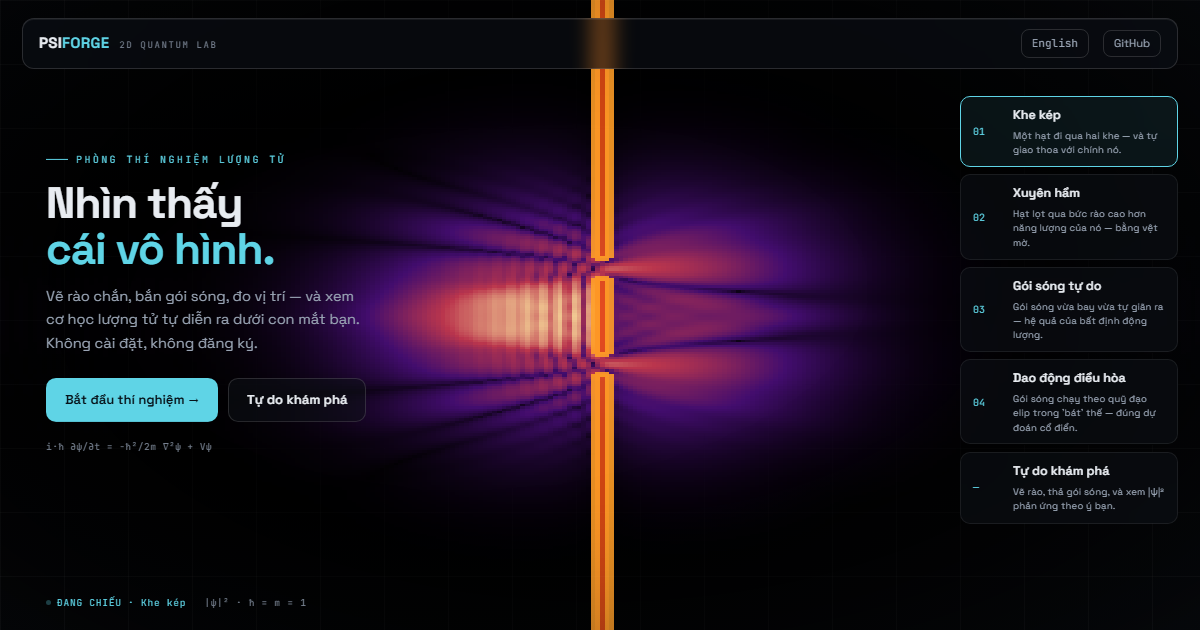
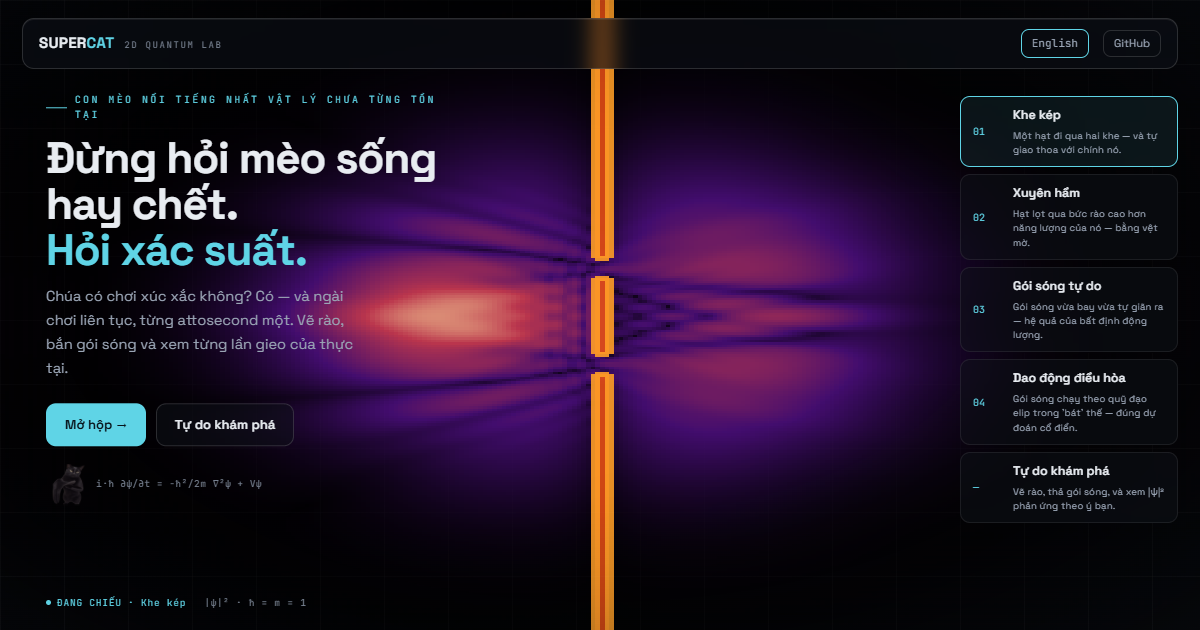
feat(web): rebrand Psiforge -> Supercat
Supercat landing voice: the meme cat hosts the hero, the physics keeps
the workspace (approved bounded design, 2026-10-02).

- i18n vi/en: app.title/tagline + landing hero (kicker 'CON MÈO NỔI
  TIẾNG NHẤT VẬT LÝ CHƯA TỪNG TỒN TẠI', title 'Đừng hỏi mèo sống hay
  chết. / Hỏi xác suất.', dice desc, CTA 'Mở hộp →'); landing.title
  stays ONE key with a literal \n, split('\n') at the call site
- index.html: Supercat title + OG/Twitter meta, dice-hook description
- wordmark SUPER<i>CAT</i> in TopBar + landing nav lockup (accent now
  rides CAT, same pattern as PSI<i>FORGE</i>)
- hero: the meme photo (cat-meme.png, whole-cat 4:5 crop) as a small
  rounded card beside the decorative Schrödinger equation
- favicon: favicon.png — face crop of the same photo (replaces the
  stroke-drawn psi svg); index.html link + landing.spec shell pin
- og.png: recaptured 1200x630 from the new vi landing
- test pins updated: i18n hero draft, wordmarks, shell title, e2e
  heading lines

diff --git a/web/index.html b/web/index.html
@@ -2,28 +2,28 @@
 <html lang="vi">
   <head>
     <meta charset="UTF-8" />
-    <link rel="icon" type="image/svg+xml" href="/favicon.svg" />
+    <link rel="icon" type="image/png" href="/favicon.png" />
     <meta name="viewport" content="width=device-width, initial-scale=1.0" />
     <!-- Document shell (UI redesign T10). The title/description are static
          Vietnamese by design — the app's default language is vi and the
          document loads before the i18n store boots, so no keys here. -->
-    <title>Psiforge — Phòng thí nghiệm lượng tử 2D</title>
+    <title>Supercat — Phòng thí nghiệm lượng tử 2D</title>
     <meta
       name="description"
-      content="Phòng thí nghiệm lượng tử 2D chạy trực tiếp trong trình duyệt: vẽ rào chắn, thả gói sóng, đo vị trí và động lượng của hàm sóng ψ. Không cài đặt, không đăng ký."
+      content="Chúa có chơi xúc xắc không? Có — và ngài chơi liên tục. Phòng thí nghiệm lượng tử 2D chạy ngay trong trình duyệt: vẽ rào chắn, thả gói sóng, đo vị trí và động lượng của hàm sóng ψ."
     />
-    <meta property="og:title" content="Psiforge — Phòng thí nghiệm lượng tử 2D" />
+    <meta property="og:title" content="Supercat — Phòng thí nghiệm lượng tử 2D" />
     <meta
       property="og:description"
-      content="Phòng thí nghiệm lượng tử 2D chạy trực tiếp trong trình duyệt: vẽ rào chắn, thả gói sóng, đo vị trí và động lượng của hàm sóng ψ. Không cài đặt, không đăng ký."
+      content="Chúa có chơi xúc xắc không? Có — và ngài chơi liên tục. Phòng thí nghiệm lượng tử 2D chạy ngay trong trình duyệt: vẽ rào chắn, thả gói sóng, đo vị trí và động lượng của hàm sóng ψ."
     />
     <meta property="og:type" content="website" />
     <meta property="og:image" content="/og.png" />
     <meta name="twitter:card" content="summary_large_image" />
-    <meta name="twitter:title" content="Psiforge — Phòng thí nghiệm lượng tử 2D" />
+    <meta name="twitter:title" content="Supercat — Phòng thí nghiệm lượng tử 2D" />
     <meta
       name="twitter:description"
-      content="Phòng thí nghiệm lượng tử 2D chạy trực tiếp trong trình duyệt: vẽ rào chắn, thả gói sóng, đo vị trí và động lượng của hàm sóng ψ. Không cài đặt, không đăng ký."
+      content="Chúa có chơi xúc xắc không? Có — và ngài chơi liên tục. Phòng thí nghiệm lượng tử 2D chạy ngay trong trình duyệt: vẽ rào chắn, thả gói sóng, đo vị trí và động lượng của hàm sóng ψ."
     />
     <meta name="twitter:image" content="/og.png" />
   </head>

diff --git a/web/src/i18n/vi.ts b/web/src/i18n/vi.ts
@@ -1,7 +1,7 @@
 /** Vietnamese dictionary. Key set must stay identical to `en.ts`. */
 export const vi: Record<string, string> = {
-  'app.title': 'Psiforge — mô phỏng lượng tử 2D',
-  'app.tagline': 'Vật lý sóng lượng tử chạy ngay trong trình duyệt',
+  'app.title': 'Supercat — mô phỏng lượng tử 2D',
+  'app.tagline': 'Tất cả chỉ là xác suất — giờ bạn nhìn thấy được',
   'app.lang.switchToEn': 'English',
   'app.lang.switchToVi': 'Tiếng Việt',
   'app.noWebgl': 'Không có WebGL2 — trình mô phỏng không thể hiển thị trên thiết bị này.',
@@ -131,9 +131,9 @@ export const vi: Record<string, string> = {
     'Chọn công cụ vẽ rào/giếng, thả gói sóng bằng cách kéo trên nền.\n' +
     'Xem |ψ|² phản ứng.',
   // UI redesign (2026-10-01): section labels for the workspace side rails and
-  // the scene tab bar, plus the landing hero copy. Values are the Appendix A
-  // draft of the redesign spec — final wording is settled in a later polish
-  // pass, these pins are the parity baseline. 'landing.title' is ONE key with
+  // the scene tab bar, plus the landing hero copy. Hero values are the
+  // Supercat rebrand draft (2026-10-02) — these pins are the parity baseline.
+  // 'landing.title' is ONE key with
   // a literal '\n' between the two hero lines (the component renders it via
   // split('\n'), like the preset cards); 'landing.schrodinger' is decorative
   // math (aria-hidden at the call site) and identical across languages.
@@ -143,11 +143,11 @@ export const vi: Record<string, string> = {
   'rail.view': 'HIỂN THỊ',
   'rail.export': 'XUẤT',
   'scene.label': 'THÍ NGHIỆM · {name}',
-  'landing.kicker': 'PHÒNG THÍ NGHIỆM LƯỢNG TỬ',
-  'landing.title': 'Nhìn thấy\ncái vô hình.',
+  'landing.kicker': 'CON MÈO NỔI TIẾNG NHẤT VẬT LÝ CHƯA TỪNG TỒN TẠI',
+  'landing.title': 'Đừng hỏi mèo sống hay chết.\nHỏi xác suất.',
   'landing.desc':
-    'Vẽ rào chắn, bắn gói sóng, đo vị trí — và xem cơ học lượng tử tự diễn ra dưới con mắt bạn. Không cài đặt, không đăng ký.',
-  'landing.ctaPrimary': 'Bắt đầu thí nghiệm →',
+    'Chúa có chơi xúc xắc không? Có — và ngài chơi liên tục, từng attosecond một. Vẽ rào, bắn gói sóng và xem từng lần gieo của thực tại.',
+  'landing.ctaPrimary': 'Mở hộp →',
   'landing.ctaFree': 'Tự do khám phá',
   'landing.status': 'ĐANG CHIẾU · {name}',
   'landing.schrodinger': 'i·ħ ∂ψ/∂t = −ħ²/2m ∇²ψ + Vψ',

diff --git a/web/src/i18n/en.ts b/web/src/i18n/en.ts
@@ -1,7 +1,7 @@
 /** English dictionary. Key set must stay identical to `vi.ts`. */
 export const en: Record<string, string> = {
-  'app.title': 'Psiforge — 2D quantum simulator',
-  'app.tagline': 'Quantum wave physics running right in your browser',
+  'app.title': 'Supercat — 2D quantum simulator',
+  'app.tagline': "It's all just probability — now you can watch",
   'app.lang.switchToEn': 'English',
   'app.lang.switchToVi': 'Tiếng Việt',
   'app.noWebgl': 'WebGL2 is not available — the simulator cannot render on this device.',
@@ -131,9 +131,9 @@ export const en: Record<string, string> = {
     'Pick a tool to draw barriers or wells, and drop a wave packet by dragging on the canvas.\n' +
     'Watch |ψ|² respond.',
   // UI redesign (2026-10-01): section labels for the workspace side rails and
-  // the scene tab bar, plus the landing hero copy. Values are the Appendix A
-  // draft of the redesign spec — final wording is settled in a later polish
-  // pass, these pins are the parity baseline. 'landing.title' is ONE key with
+  // the scene tab bar, plus the landing hero copy. Hero values are the
+  // Supercat rebrand draft (2026-10-02) — these pins are the parity baseline.
+  // 'landing.title' is ONE key with
   // a literal '\n' between the two hero lines (the component renders it via
   // split('\n'), like the preset cards); 'landing.schrodinger' is decorative
   // math (aria-hidden at the call site) and identical across languages.
@@ -143,11 +143,11 @@ export const en: Record<string, string> = {
   'rail.view': 'VIEW',
   'rail.export': 'EXPORT',
   'scene.label': 'EXPERIMENT · {name}',
-  'landing.kicker': '2D QUANTUM LAB',
-  'landing.title': 'See the\ninvisible.',
+  'landing.kicker': 'THE MOST FAMOUS CAT IN PHYSICS NEVER EXISTED',
+  'landing.title': "Don't ask if the cat's alive.\nAsk for the probability.",
   'landing.desc':
-    'Draw barriers, fire wave packets, take measurements — and watch quantum mechanics unfold before your eyes. No install, no signup.',
-  'landing.ctaPrimary': 'Start experimenting →',
+    'Does God play dice? Yes — every single attosecond. Draw barriers, fire wave packets and watch reality roll.',
+  'landing.ctaPrimary': 'Open the box →',
   'landing.ctaFree': 'Free exploration',
   'landing.status': 'NOW SHOWING · {name}',
   'landing.schrodinger': 'i·ħ ∂ψ/∂t = −ħ²/2m ∇²ψ + Vψ',

diff --git a/web/tests/i18n.test.ts b/web/tests/i18n.test.ts
@@ -129,21 +129,21 @@ describe('redesign keys (redesign Task 3, Appendix A draft copy)', () => {
     expect(en['scene.label']).toBe('EXPERIMENT · {name}')
   })
 
-  it('landing hero copy matches the Appendix A draft', () => {
-    expect(vi['landing.kicker']).toBe('PHÒNG THÍ NGHIỆM LƯỢNG TỬ')
-    expect(en['landing.kicker']).toBe('2D QUANTUM LAB')
+  it('landing hero copy matches the Supercat draft', () => {
+    expect(vi['landing.kicker']).toBe('CON MÈO NỔI TIẾNG NHẤT VẬT LÝ CHƯA TỪNG TỒN TẠI')
+    expect(en['landing.kicker']).toBe('THE MOST FAMOUS CAT IN PHYSICS NEVER EXISTED')
     // One key holding both hero lines separated by a literal newline; the
     // landing component renders it as split('\n'), like PresetCard cards.
-    expect(vi['landing.title']).toBe('Nhìn thấy\ncái vô hình.')
-    expect(en['landing.title']).toBe('See the\ninvisible.')
+    expect(vi['landing.title']).toBe('Đừng hỏi mèo sống hay chết.\nHỏi xác suất.')
+    expect(en['landing.title']).toBe("Don't ask if the cat's alive.\nAsk for the probability.")
     expect(vi['landing.desc']).toBe(
-      'Vẽ rào chắn, bắn gói sóng, đo vị trí — và xem cơ học lượng tử tự diễn ra dưới con mắt bạn. Không cài đặt, không đăng ký.',
+      'Chúa có chơi xúc xắc không? Có — và ngài chơi liên tục, từng attosecond một. Vẽ rào, bắn gói sóng và xem từng lần gieo của thực tại.',
     )
     expect(en['landing.desc']).toBe(
-      'Draw barriers, fire wave packets, take measurements — and watch quantum mechanics unfold before your eyes. No install, no signup.',
+      'Does God play dice? Yes — every single attosecond. Draw barriers, fire wave packets and watch reality roll.',
     )
-    expect(vi['landing.ctaPrimary']).toBe('Bắt đầu thí nghiệm →')
-    expect(en['landing.ctaPrimary']).toBe('Start experimenting →')
+    expect(vi['landing.ctaPrimary']).toBe('Mở hộp →')
+    expect(en['landing.ctaPrimary']).toBe('Open the box →')
     expect(vi['landing.ctaFree']).toBe('Tự do khám phá')
     expect(en['landing.ctaFree']).toBe('Free exploration')
     expect(vi['landing.status']).toBe('ĐANG CHIẾU · {name}')

diff --git a/web/tests/landing.spec.ts b/web/tests/landing.spec.ts
@@ -65,8 +65,8 @@ test('document shell: vi lang, branded title, OG/Twitter meta, favicon resolves'
   // The document is Vietnamese by default; the title is static vi copy
   // (spec Appendix A — deliberately NOT an i18n key).
   expect(await page.evaluate(() => document.documentElement.lang)).toBe('vi')
-  await expect(page).toHaveTitle(/Psiforge/)
-  expect(await page.title()).toBe('Psiforge — Phòng thí nghiệm lượng tử 2D')
+  await expect(page).toHaveTitle(/Supercat/)
+  expect(await page.title()).toBe('Supercat — Phòng thí nghiệm lượng tử 2D')
 
   // Open Graph card + mirrored Twitter card.
   const ogImage = page.locator('meta[property="og:image"]')
@@ -83,11 +83,11 @@ test('document shell: vi lang, branded title, OG/Twitter meta, favicon resolves'
     /\/og\.png$/,
   )
 
-  // The favicon link points at the SVG and the dev server actually serves it.
+  // The favicon link points at the cat PNG and the dev server serves it.
   const icon = page.locator('link[rel="icon"]')
   await expect(icon).toHaveCount(1)
-  await expect(icon).toHaveAttribute('href', '/favicon.svg')
-  const iconResponse = await page.request.get('/favicon.svg')
+  await expect(icon).toHaveAttribute('href', '/favicon.png')
+  const iconResponse = await page.request.get('/favicon.png')
   expect(iconResponse.status()).toBe(200)
 
   expect(consoleErrors).toEqual([])
@@ -118,8 +118,8 @@ test('theater landing: five preset tiles in registry order, hero + nav + strip +
   // strip, status line — and the live background canvas behind it all.
   await expect(page.getByTestId('landing-hero')).toBeVisible()
   const heading = page.getByTestId('landing-hero').getByRole('heading', { level: 1 })
-  await expect(heading).toContainText('See the')
-  await expect(heading).toContainText('invisible.')
+  await expect(heading).toContainText("Don't ask if the cat's alive.")
+  await expect(heading).toContainText('Ask for the probability.')
   await expect(page.getByTestId('landing-nav')).toBeVisible()
   await expect(page.getByTestId('landing-strip')).toBeVisible()
   const status = page.getByTestId('landing-status')

diff --git a/web/tests/topBar.test.ts b/web/tests/topBar.test.ts
@@ -11,11 +11,11 @@ import { vi as viDict } from '../src/i18n/vi.js'
 
 /**
  * TopBar (UI redesign T8): the full-width workspace bar — back link,
- * PSI·FORGE wordmark, the scene label, the segmented mode control and the
+ * SUPER·CAT wordmark, the scene label, the segmented mode control and the
  * language toggle. Pinned by the task brief —
  *
  * - `back-link` stays an anchor to '#/' labeled app.backToLanding;
- * - the wordmark is plain text "PSIFORGE" with "PSI" carried by its own
+ * - the wordmark is plain text "SUPERCAT" with "SUPER" carried by its own
  *   element (accent styling);
  * - the scene label composes `scene.label` with the preset's title param;
  * - the segmented mode control keeps the e2e contract EXACTLY: one button
@@ -57,17 +57,17 @@ describe('TopBar chrome', () => {
     expect(back.textContent).toContain(enDict['app.backToLanding'])
   })
 
-  it('renders the PSIFORGE wordmark with FORGE on its own accent element', () => {
+  it('renders the SUPERCAT wordmark with CAT on its own accent element', () => {
     const { container } = render(TopBar, { props: { id: 'double-slit' } })
 
     // getByText cannot match the span (its text is split by the <i>), so
     // pin it through the class — the container-query idiom toolRail.test.ts
     // uses for its .value readouts.
     const mark = container.querySelector('.mark')
-    expect(mark?.textContent).toBe('PSIFORGE')
-    // "FORGE" rides the <i> so CSS can accent it (mockup pattern
-    // PSI<i>FORGE</i>); "PSI" stays in the base text color.
-    expect(mark?.querySelector('i')?.textContent).toBe('FORGE')
+    expect(mark?.textContent).toBe('SUPERCAT')
+    // "CAT" rides the <i> so CSS can accent it (mockup pattern
+    // SUPER<i>CAT</i>); "SUPER" stays in the base text color.
+    expect(mark?.querySelector('i')?.textContent).toBe('CAT')
   })
 
   it('renders the scene label as the view heading (h1)', () => {

diff --git a/web/src/ui/Landing.svelte b/web/src/ui/Landing.svelte
@@ -130,9 +130,9 @@
 
   <header class="nav" data-testid="landing-nav">
     <div class="mark">
-      <b>PSI<i>FORGE</i></b>
+      <b>SUPER<i>CAT</i></b>
       <!-- Brand lockup micro-tag (mockup "2D QUANTUM LAB"): part of the
-           wordmark like PSIFORGE itself, not translatable copy. -->
+           wordmark like SUPERCAT itself, not translatable copy. -->
       <span class="tag">2D QUANTUM LAB</span>
     </div>
     <div class="right">
@@ -165,7 +165,13 @@
         <a class="btn pri" href="#/sim/double-slit">{hero.ctaPrimary}</a>
         <a class="btn gho" href="#/sim/sandbox">{hero.ctaFree}</a>
       </div>
-      <p class="schrodinger" aria-hidden="true">{hero.schrodinger}</p>
+      <!-- The equation that (allegedly) spawned the cat — and the cat itself,
+           mid-scheme, right beside it. Both decorative (aria-hidden): the
+           grin is the brand, the math is the alibi. -->
+      <p class="schrodinger" aria-hidden="true">
+        <img class="cat" src="/cat-meme.png" alt="" loading="lazy" decoding="async" />
+        <span aria-hidden="true">{hero.schrodinger}</span>
+      </p>
     </div>
   </section>
 
@@ -436,10 +442,25 @@
 
   .schrodinger {
     margin: 18px 0 0;
+    display: flex;
+    align-items: center;
+    gap: 10px;
     font-family: 'JetBrains Mono', ui-monospace, Consolas, monospace;
     font-size: 9.5px;
     color: var(--text-3);
     letter-spacing: 0.06em;
+  }
+
+  /* The scheming cat beside its equation (Supercat rebrand): the meme photo
+     as a small rounded sticker — tall 4:5 crop, hairline border so it reads
+     as a deliberate card against the backdrop rather than a stray photo. */
+  .schrodinger .cat {
+    height: 84px;
+    width: auto;
+    flex: none;
+    border-radius: 8px;
+    border: 1px solid var(--line-strong);
+    display: block;
   }
 
   /* ---- film-strip selector (mockup .lg-strip) ---------------------------- */

diff --git a/web/tests/landing.test.ts b/web/tests/landing.test.ts
@@ -188,13 +188,13 @@ describe('Landing strip and hero structure', () => {
     expect(container).toBeTruthy()
   })
 
-  it('renders the glass nav: PSIFORGE wordmark, GitHub pill, language toggle', async () => {
+  it('renders the glass nav: SUPERCAT wordmark, GitHub pill, language toggle', async () => {
     const { container } = render(Landing)
 
     // The wordmark rides .mark b (the .mark lockup also carries the tag).
     const wordmark = container.querySelector('.mark b')
-    expect(wordmark?.textContent).toBe('PSIFORGE')
-    expect(wordmark?.querySelector('i')?.textContent).toBe('FORGE')
+    expect(wordmark?.textContent).toBe('SUPERCAT')
+    expect(wordmark?.querySelector('i')?.textContent).toBe('CAT')
     expect(container.querySelector('.mark .tag')?.textContent).toBe('2D QUANTUM LAB')
 
     const github = screen.getByText('GitHub')

diff --git a/web/src/ui/TopBar.svelte b/web/src/ui/TopBar.svelte
@@ -53,9 +53,9 @@
 
 <header class="topbar">
   <a class="back" data-testid="back-link" href="#/">{backLabel}</a>
-  <!-- Wordmark: plain text, "FORGE" on its own element for the accent
-       (mockup .ws-mark pattern: PSI<i>FORGE</i>). -->
-  <span class="mark">PSI<i>FORGE</i></span>
+  <!-- Wordmark: plain text, "CAT" on its own element for the accent
+       (mockup .ws-mark pattern: SUPER<i>CAT</i>). -->
+  <span class="mark">SUPER<i>CAT</i></span>
   <!-- The view's single h1 (a11y): styled as the mono micro scene label,
        all h1 defaults overridden below. -->
   <h1 class="scene">{sceneLabel}</h1>
